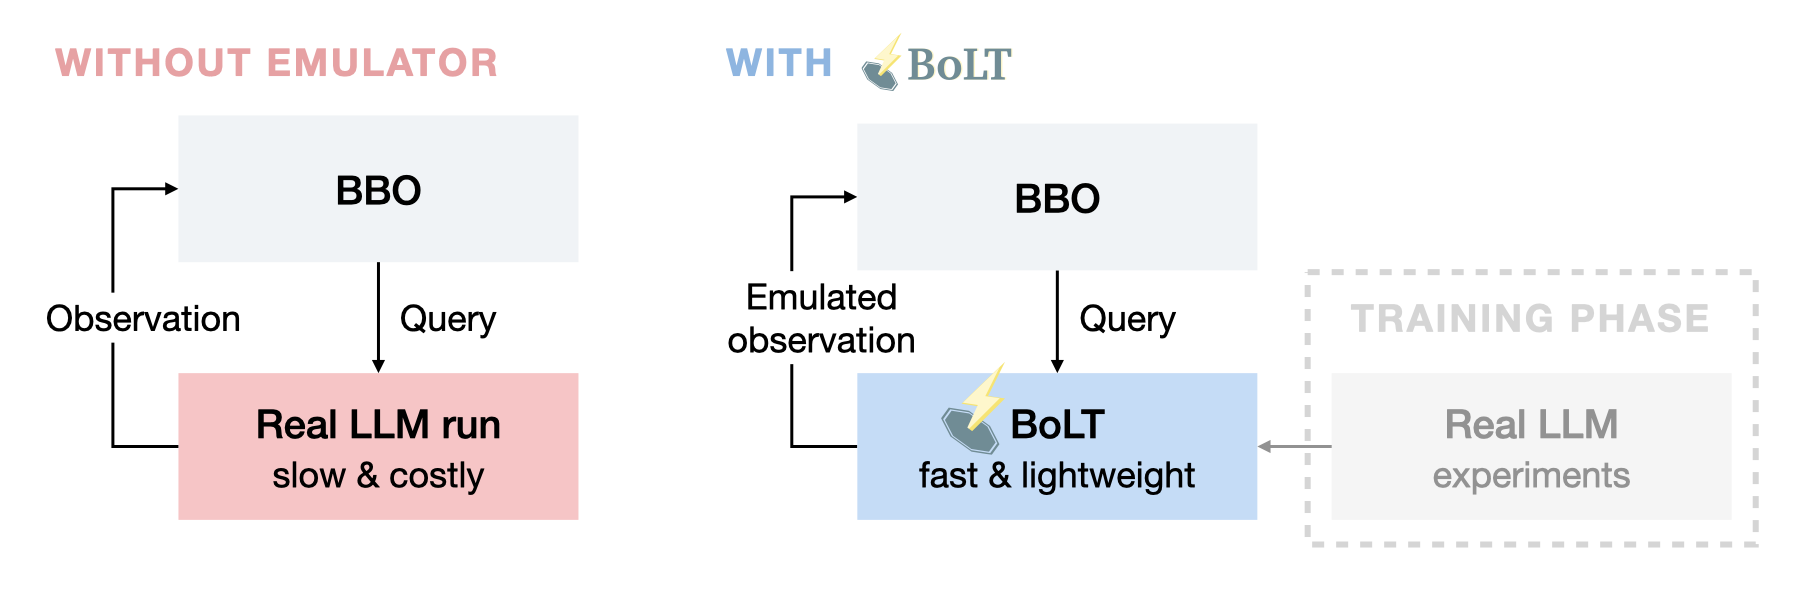
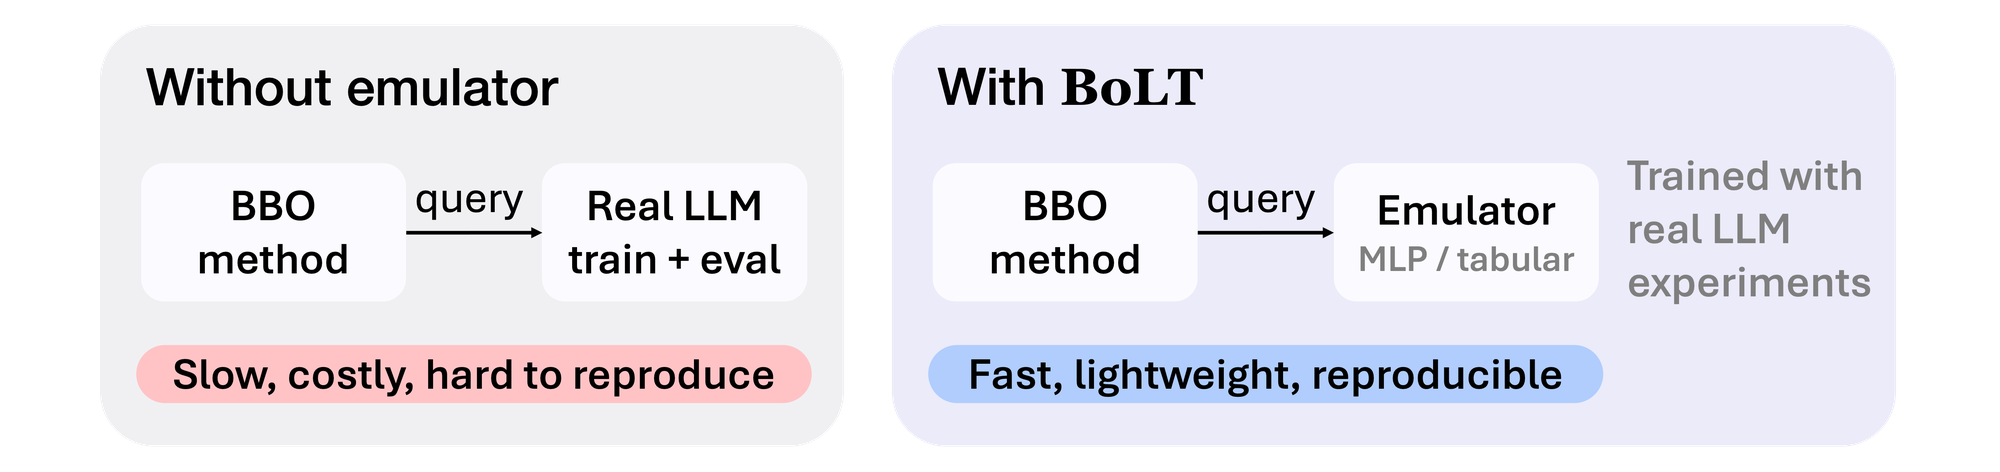
update for bolt v2

diff --git a/index.html b/index.html
@@ -150,7 +150,7 @@
   <main class="card">
     <h1 class="name">Ruth W. T. Chew</h1>
     <p class="bio">
-      Research Associate at NUS, working on Bayesian optimization and LLMs.<br>
+      PhD student at the University of Washington.<br>
     </p>
 
     <div class="links">
@@ -170,7 +170,7 @@
     <div class="project-list">
       <a class="project-link" href="/bolt/">
         <span class="project-name">BoLT</span>
-        <span class="project-desc">Black-box optimization benchmark for LLM tasks — HPO, data mixture, and prompt optimization.</span>
+        <span class="project-desc">Black-box optimization benchmark for LLM tasks — HPO, data mixture, prompt, and parallelism configuration optimization.</span>
       </a>
     </div>
   </main>

diff --git a/_sass/_components.scss b/_sass/_components.scss
@@ -306,6 +306,14 @@
     justify-content: center;
     grid-template-columns: repeat(auto-fit, minmax(200px, 320px));
   }
+
+  &.method-cards--2col {
+    grid-template-columns: repeat(2, minmax(0, 1fr));
+    @media (max-width: 640px) { grid-template-columns: minmax(0, 1fr); }
+
+    td:first-child { white-space: nowrap; }
+    td.wrap { white-space: normal; }
+  }
 }
 
 .method-card {

diff --git a/bolt/index.md b/bolt/index.md
@@ -9,24 +9,24 @@ title: "BoLT: A Benchmark to Democratize Black-box Optimization Research for Exp
 Critical decisions in the modern LLM pipeline, framed as optimization problems.
 {: .section-tagline}
 
-<div class="method-cards">
+<div class="method-cards method-cards--2col">
   <div class="method-card">
-    <div class="method-card__title">Hyperparameter optimization</div>
-    <div class="method-card__body" style="margin-top:0.75rem;">LoRA fine-tuning on Qwen3-4B/8B, evaluated on MATH-500.</div>
+    <div class="method-card__title">Hyperparameter optimization <span class="keyword-tag" style="margin-left:0.4rem;vertical-align:middle;">MLP emulator</span></div>
+    <div class="method-card__body" style="margin-top:0.75rem;">LoRA fine-tuning of Qwen3-4B/8B on OpenMathInstruct-2, evaluated on MATH-500.</div>
     <table>
       <thead>
         <tr><th>Problem</th><th>Dim</th><th>Challenges</th></tr>
       </thead>
       <tbody>
         <tr><td>HPO</td><td>7</td><td>mixed variables</td></tr>
-        <tr><td>HPO-MF-Cont</td><td>8</td><td>mixed variables, multi-fidelity (continuous)</td></tr>
-        <tr><td>HPO-MF-Disc</td><td>8</td><td>mixed variables, multi-fidelity (discrete)</td></tr>
+        <tr><td>HPO-MF-Cont</td><td>8</td><td>mixed variables, continuous fidelity</td></tr>
+        <tr><td>HPO-MF-Disc</td><td>8</td><td>mixed variables, discrete fidelity</td></tr>
       </tbody>
     </table>
   </div>
   <div class="method-card">
-    <div class="method-card__title">Data mixture optimization</div>
-    <div class="method-card__body" style="margin-top:0.75rem;">Search over instruction-following, math, and code proportions from TULU-3, evaluated on IFEval, MATH-500, and MBPP+.</div>
+    <div class="method-card__title">Data mixture optimization <span class="keyword-tag" style="margin-left:0.4rem;vertical-align:middle;">MLP emulator</span></div>
+    <div class="method-card__body" style="margin-top:0.75rem;">Two-stage mixtures of TULU-3 instruction, math, and code data, evaluated on IFEval, MATH-500, and MBPP+.</div>
     <table>
       <thead>
         <tr><th>Problem</th><th>Dim</th><th>Challenges</th></tr>
@@ -39,17 +39,26 @@ Critical decisions in the modern LLM pipeline, framed as optimization problems.
     </table>
   </div>
   <div class="method-card">
-    <div class="method-card__title">Prompt optimization</div>
-    <div class="method-card__body" style="margin-top:0.75rem;">Discrete search over 5,014 pre-embedded prompts, using Matryoshka embeddings at four truncation dimensions (128–768).</div>
+    <div class="method-card__title">Prompt optimization <span class="keyword-tag" style="margin-left:0.4rem;vertical-align:middle;">Tabular</span></div>
+    <div class="method-card__body" style="margin-top:0.75rem;">Discrete search over 5,014 prompts, using Matryoshka embeddings at four truncation dimensions (<span style="white-space:nowrap">128–768</span>).</div>
     <table>
       <thead>
         <tr><th>Problem</th><th>Dim</th><th>Challenges</th></tr>
       </thead>
       <tbody>
-        <tr><td>PO-128</td><td>128</td><td>high-dimensional</td></tr>
-        <tr><td>PO-256</td><td>256</td><td>high-dimensional</td></tr>
-        <tr><td>PO-512</td><td>512</td><td>high-dimensional</td></tr>
-        <tr><td>PO-768</td><td>768</td><td>high-dimensional</td></tr>
+        <tr><td class="wrap">PO-128/<wbr>256/<wbr>512/<wbr>768</td><td>128–768</td><td>high-dimensional</td></tr>
+      </tbody>
+    </table>
+  </div>
+  <div class="method-card">
+    <div class="method-card__title">Parallelism configuration optimization <span class="keyword-tag" style="margin-left:0.4rem;vertical-align:middle;">Tabular</span></div>
+    <div class="method-card__body" style="margin-top:0.75rem;">Discrete search over parallelism configurations on 16–64 GPUs, maximizing training throughput without running out of memory.</div>
+    <table>
+      <thead>
+        <tr><th>Problem</th><th>Dim</th><th>Challenges</th></tr>
+      </thead>
+      <tbody>
+        <tr><td class="wrap">PCO-16/<wbr>32/<wbr>64</td><td>8</td><td>black-box constraint</td></tr>
       </tbody>
     </table>
   </div>
@@ -58,10 +67,10 @@ Critical decisions in the modern LLM pipeline, framed as optimization problems.
 
 <div class="section-heading" id="emulators"></div>
 
-Backed by 20k+ real LLM experiments, queried in milliseconds.
+MLP emulators backed by 22k+ real LLM experiments, queried in milliseconds.
 {: .section-tagline}
 
-Emulators fitted on real LLM runs reproduce the objective landscape at negligible query cost, validated via Spearman rank correlation on held-out test sets (ρ ≥ 0.72 across all tasks).
+They approximate the real objective landscape at negligible query cost, validated against real runs on held-out configurations (Spearman ρ ≥ 0.76, R² ≥ 0.63).
 <div class="method-card method-card--centered method-card--surface-light">
   <div class="method-card__images" style="--img-max: 32%;">
     <img src="/assets/images/bolt/emulator_ternary_ifeval_p1_s1.png" alt="IFEval emulator landscape">
@@ -73,29 +82,35 @@ Emulators fitted on real LLM runs reproduce the objective landscape at negligibl
 
 <div class="section-heading" id="results"></div>
 
-BO methods consistently outperform baselines.
+BO generally wins, but no single method wins everywhere.
 {: .section-tagline}
 
-We benchmark 15+ Bayesian optimization (BO) and black-box methods across all 10 problems. Three key findings are presented here.
+We benchmark 30+ Bayesian optimization (BO) and black-box methods across all 13 problems. Four key findings are presented here.
 
 <div class="method-cards">
   <div class="method-card method-card--surface-light">
     <div class="method-card__title">HPO</div>
     <img src="/assets/images/bolt/hpo_simple_legend.png" alt="HPO legend" style="height:70px;width:100%;object-fit:contain;object-position:center;border:none;border-radius:0;">
     <img src="/assets/images/bolt/hpo_simple.png" alt="HPO results" style="border:none;border-radius:0;">
-    <div class="method-card__body" style="margin-top:0.75rem;">GP-based methods (LogNEI, MES, GIBBON) consistently outperform HPO baselines (TPE, CMA-ES), and any additional compute overhead is negligible compared to real LLM training costs.</div>
+    <div class="method-card__body" style="margin-top:0.75rem;">GP-based methods (GIBBON, UCB, LogEI) outperform HPO baselines (TPE, CMA-ES), and their compute overhead is negligible next to real LLM training costs.</div>
   </div>
   <div class="method-card method-card--surface-light">
     <div class="method-card__title">DMO-MO</div>
-      <img src="/assets/images/bolt/dm_mo_simple_legend.png" alt="DMO-MO legend" style="height:70px;width:100%;object-fit:contain;object-position:center;border:none;border-radius:0;">
-      <img src="/assets/images/bolt/dm_mo_simple.png" alt="DMO-MO results" style="border:none;border-radius:0;">
-    <div class="method-card__body" style="margin-top:0.75rem;">NEHVI matches NSGA2 using 50× fewer evaluations, with substantially tighter confidence intervals.</div>
+    <img src="/assets/images/bolt/dm_mo_simple_legend.png" alt="DMO-MO legend" style="height:70px;width:100%;object-fit:contain;object-position:center;border:none;border-radius:0;">
+    <img src="/assets/images/bolt/dm_mo_simple.png" alt="DMO-MO results" style="border:none;border-radius:0;">
+    <div class="method-card__body" style="margin-top:0.75rem;">NSGA-II leads early, but NEHVI overtakes it after ~100 iterations while using 50× fewer evaluations per iteration.</div>
   </div>
   <div class="method-card method-card--surface-light">
     <div class="method-card__title">PO-768</div>
-      <img src="/assets/images/bolt/po768_simple_legend.png" alt="PO legend" style="height:70px;width:100%;object-fit:contain;object-position:center;border:none;border-radius:0;">
-      <img src="/assets/images/bolt/po768_simple.png" alt="PO-768 results" style="border:none;border-radius:0;">
-    <div class="method-card__body" style="margin-top:0.75rem;">Trust-region methods (dTuRBO, dBAxUS) adapted for discrete candidate sets are essential, reaching near-optimal solutions within 200 iterations.</div>
+    <img src="/assets/images/bolt/po768_simple_legend.png" alt="PO-768 legend" style="height:70px;width:100%;object-fit:contain;object-position:center;border:none;border-radius:0;">
+    <img src="/assets/images/bolt/po768_simple.png" alt="PO-768 results" style="border:none;border-radius:0;">
+    <div class="method-card__body" style="margin-top:0.75rem;">Trust-region methods adapted for discrete candidate sets (dTuRBO, dBAxUS) are essential, approaching the optimum within 200 iterations with batching.</div>
+  </div>
+  <div class="method-card method-card--surface-light">
+    <div class="method-card__title">PCO-64</div>
+    <img src="/assets/images/bolt/pco64_simple_legend.png" alt="PCO-64 legend" style="height:70px;width:100%;object-fit:contain;object-position:center;border:none;border-radius:0;">
+    <img src="/assets/images/bolt/pco64_simple.png" alt="PCO-64 results" style="border:none;border-radius:0;">
+    <div class="method-card__body" style="margin-top:0.75rem;">Near-optimal plateaus stall most methods behind random search, but parallelism priors help: UCB-C+prior finds the optimum in 5 of 10 seeds, up from 0.</div>
   </div>
 </div>
 
@@ -107,8 +122,8 @@ Evaluate on [[bolt]].
 ![BoLT API example](/assets/images/bolt/bolt_api.png)
 {: .figure-half .figure-right .no-border style="margin-top:0rem"}
 
-[[bolt]] is built for BBO researchers. Every problem subclasses BoTorch's `BaseTestProblem`, so your existing code plugs straight in. Emulator weights and tabular data are fetched automatically from [HuggingFace](https://huggingface.co/collections/chewwt/bolt-models) on first use.
+[[bolt]] is built for BBO researchers. Every problem subclasses BoTorch's `BaseTestProblem`, so your existing code plugs straight in. Emulator weights and tabular data are fetched automatically from [HuggingFace](https://huggingface.co/collections/Glow-AI/bolt) on first use.
 
-The benchmark is not limited to the 10 bundled problems. You can construct new optimization settings (constrained, contextual, etc.) using the public emulators or underlying data, without running any new LLM experiments.
+The benchmark is not limited to the 13 bundled problems. You can construct new optimization settings (contextual, etc.) using the public emulators or underlying data, without running any new LLM experiments.
 
 Install the Python package, point your optimizer at a [[bolt]] problem, and you have a reproducible, grounded evaluation. See the [documentation](https://bolt-bench.readthedocs.io/en/latest/) to get started.
